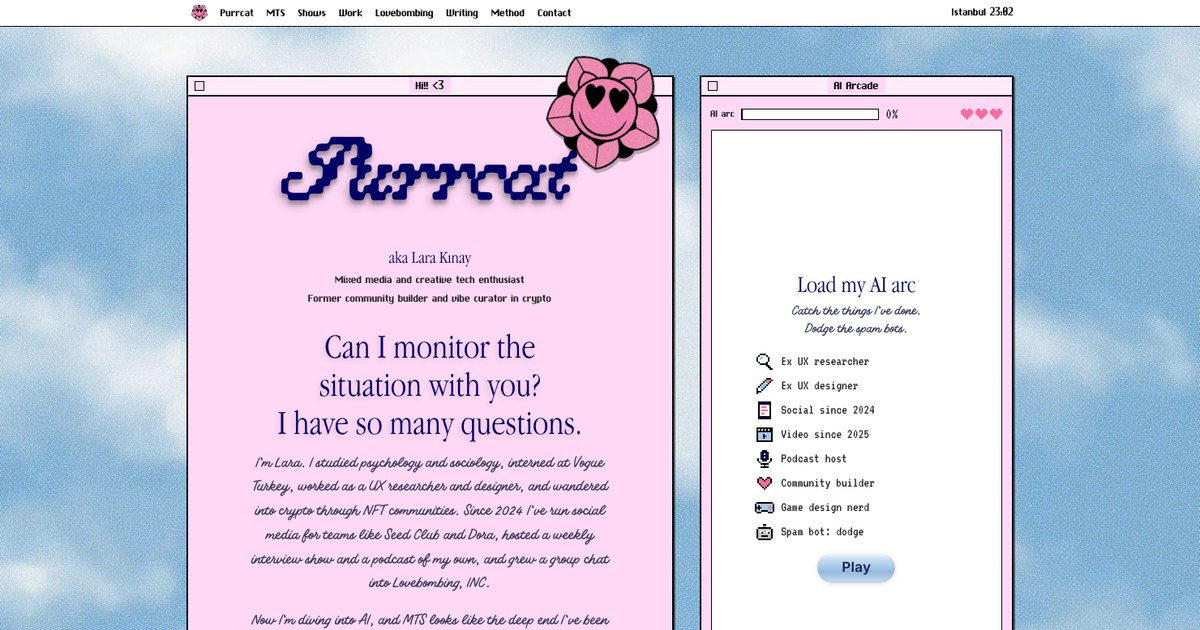
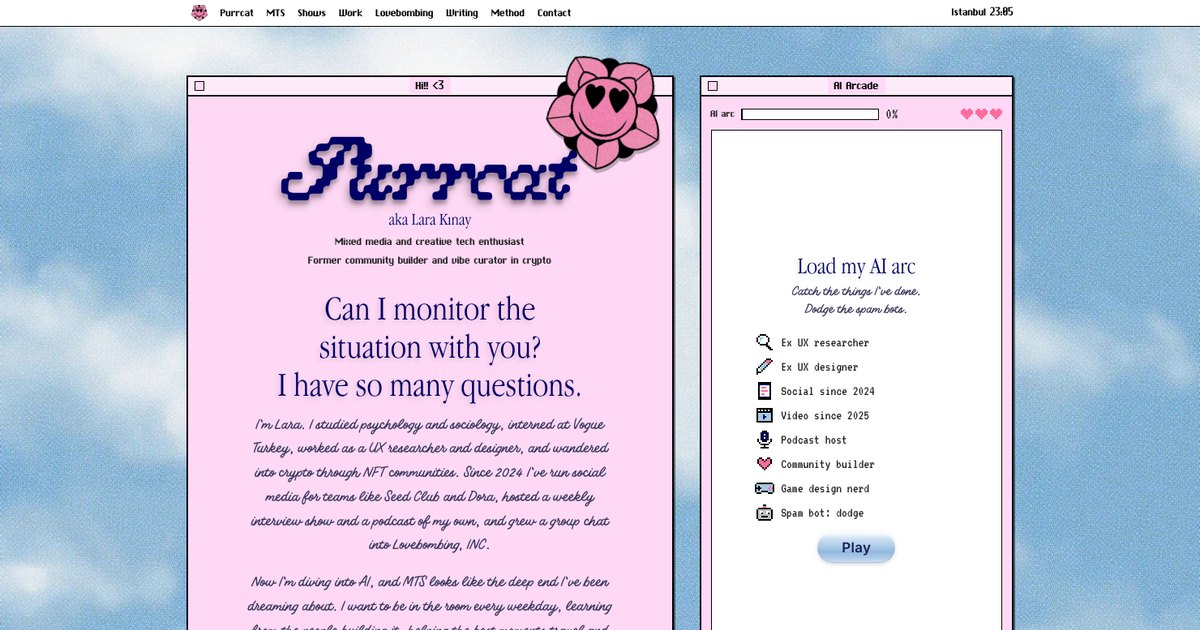
Tuck the name label right under the Purrcat wordmark
The wordmark font leaves an empty band 0.4em tall under its letters, so the label floated about 45 to 64px below the ink. A matching negative margin pulls it up at every size. Link preview image refreshed.

Claude-Session: https://claude.ai/code/session_012vLfLktoEVwbfYkYAVud5t

diff --git a/index.html b/index.html
@@ -291,7 +291,7 @@ img { max-width: 100%; }
   pointer-events: none;
 }
 .wordmark {
-  margin: 0;
+  margin: 0 0 -0.42em;
   font-family: var(--font-wordmark);
   font-size: clamp(64px, 11vw, 112px);
   line-height: 1;
